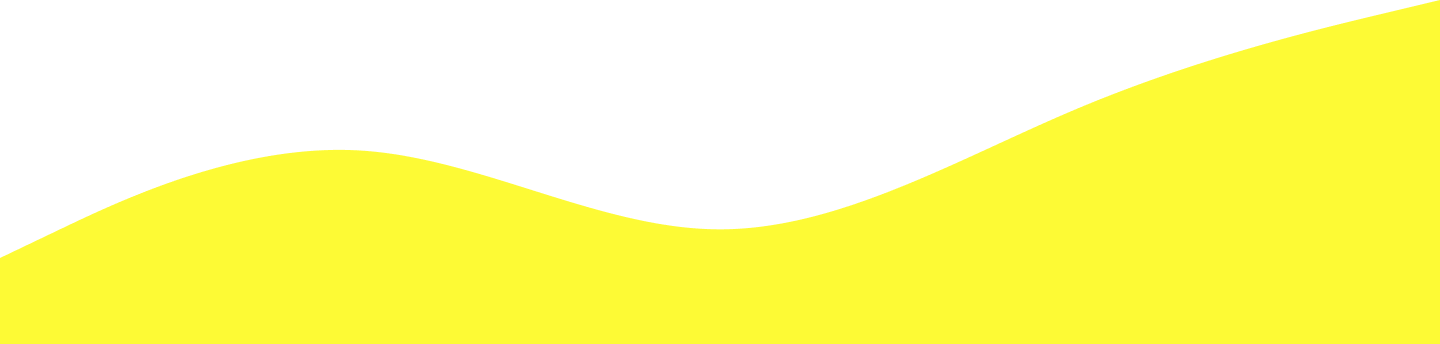
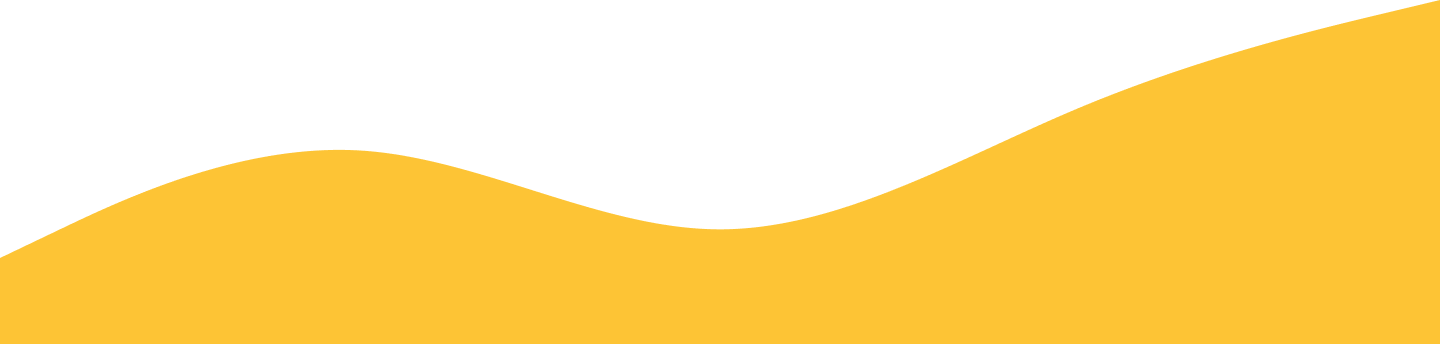
add user verif to go on admin

diff --git a/src/components/Navbar.tsx b/src/components/Navbar.tsx
@@ -1,6 +1,6 @@
 import { useState } from "react";
 import { Link, useNavigate } from "react-router";
-import { FaBars, FaXmark } from "react-icons/fa6";
+import { FaArrowRightFromBracket, FaBars, FaXmark } from "react-icons/fa6";
 import { useAuth } from "../hooks/useAuth";
 
 const navLinks = [
@@ -14,12 +14,13 @@ const Navbar = () => {
   const { user, logout } = useAuth();
   const navigate = useNavigate();
 
-  const handleAuth = () => {
-    if (user) {
-      logout();
-    } else {
-      navigate("/login");
-    }
+  const handleLogin = () => {
+    navigate("/login");
+    setMenuOpen(false);
+  };
+
+  const handleLogout = () => {
+    logout();
     setMenuOpen(false);
   };
 
@@ -69,12 +70,32 @@ const Navbar = () => {
             </>
           )}
         </ul>
-        <button
-          onClick={handleAuth}
-          className="text-sm font-semibold px-4 py-2 rounded-xl border border-[var(--color-main-dark)] text-[var(--color-main-dark)] hover:bg-[var(--color-main-dark)] hover:text-white transition-colors cursor-pointer"
-        >
-          {user ? "Logout" : "Login"}
-        </button>
+        {user ? (
+          <div className="flex items-center gap-3">
+            <img
+              src={user.avatarUrl}
+              alt={user.name}
+              title={user.name}
+              className="w-9 h-9 rounded-full object-cover border border-[var(--color-main-dark)]"
+              referrerPolicy="no-referrer"
+            />
+            <button
+              onClick={handleLogout}
+              className="p-2 rounded-full text-[var(--color-main-dark)] hover:bg-[var(--color-main-dark)] hover:text-white transition-colors cursor-pointer"
+              title="Logout"
+              aria-label="Logout"
+            >
+              <FaArrowRightFromBracket className="w-4 h-4" />
+            </button>
+          </div>
+        ) : (
+          <button
+            onClick={handleLogin}
+            className="text-sm font-semibold px-4 py-2 rounded-xl border border-[var(--color-main-dark)] text-[var(--color-main-dark)] hover:bg-[var(--color-main-dark)] hover:text-white transition-colors cursor-pointer"
+          >
+            Login
+          </button>
+        )}
       </nav>
 
       {/* Burger button */}
@@ -127,12 +148,31 @@ const Navbar = () => {
               </>
             )}
             <li>
-              <button
-                onClick={handleAuth}
-                className="text-base text-[var(--color-main-dark)] hover:underline transition-colors cursor-pointer"
-              >
-                {user ? "Logout" : "Login"}
-              </button>
+              {user ? (
+                <div className="flex items-center gap-3">
+                  <img
+                    src={user.avatarUrl}
+                    alt={user.name}
+                    title={user.name}
+                    className="w-8 h-8 rounded-full object-cover border border-[var(--color-main-dark)]"
+                    referrerPolicy="no-referrer"
+                  />
+                  <button
+                    onClick={handleLogout}
+                    className="flex items-center gap-2 text-base text-[var(--color-main-dark)] hover:underline transition-colors cursor-pointer"
+                  >
+                    <FaArrowRightFromBracket className="w-4 h-4" />
+                    Logout
+                  </button>
+                </div>
+              ) : (
+                <button
+                  onClick={handleLogin}
+                  className="text-base text-[var(--color-main-dark)] hover:underline transition-colors cursor-pointer"
+                >
+                  Login
+                </button>
+              )}
             </li>
           </ul>
         </nav>

diff --git a/src/pages/LoginPage.tsx b/src/pages/LoginPage.tsx
@@ -1,40 +1,55 @@
+import { useState } from "react";
 import { GoogleLogin } from "@react-oauth/google";
 import { useNavigate } from "react-router";
 import { useAuth } from "../hooks/useAuth";
-import { parseGoogleCredential } from "../services/authService";
+import { isAuthorizedEmail, parseGoogleCredential } from "../services/authService";
 
 const LoginPage = () => {
   const { login } = useAuth();
   const navigate = useNavigate();
+  const [error, setError] = useState<string | null>(null);
 
   return (
-    <div className="min-h-screen bg-[var(--color-bg-light)] flex items-center justify-center">
-      <div className="bg-white rounded-2xl shadow-sm p-12 flex flex-col items-center gap-8 w-full max-w-sm">
-        <h1
-          className="text-3xl font-bold text-[var(--color-main-dark)]"
-          style={{ fontFamily: "var(--font-playfair)" }}
-        >
-          Admin
-        </h1>
+    <section className="max-w-md mx-auto px-10 py-16 flex flex-col items-center text-center gap-6">
+      <h1
+        className="text-5xl font-bold text-[var(--color-main-dark)]"
+        style={{ fontFamily: "var(--font-playfair)" }}
+      >
+        Admin
+      </h1>
+      <p
+        className="text-base text-[var(--color-gray-medium)] leading-relaxed"
+        style={{ fontFamily: "var(--font-nunito)" }}
+      >
+        Connectez-vous avec votre compte Google pour accéder au tableau de
+        bord.
+      </p>
+      <GoogleLogin
+        onSuccess={({ credential }) => {
+          if (!credential) return;
+          const user = parseGoogleCredential(credential);
+          if (!user) return;
+          if (!isAuthorizedEmail(user.email)) {
+            setError(
+              "Ce compte Google n'est pas autorisé à accéder à l'administration.",
+            );
+            return;
+          }
+          setError(null);
+          login(user);
+          navigate("/admin/projects");
+        }}
+        onError={() => console.error("Échec de la connexion Google")}
+      />
+      {error && (
         <p
-          className="text-sm text-[var(--color-gray-medium)] text-center"
+          className="text-sm text-red-500"
           style={{ fontFamily: "var(--font-nunito)" }}
         >
-          Connectez-vous avec votre compte Google pour accéder au tableau de
-          bord.
+          {error}
         </p>
-        <GoogleLogin
-          onSuccess={({ credential }) => {
-            if (!credential) return;
-            const user = parseGoogleCredential(credential);
-            if (!user) return;
-            login(user);
-            navigate("/admin/projects");
-          }}
-          onError={() => console.error("Échec de la connexion Google")}
-        />
-      </div>
-    </div>
+      )}
+    </section>
   );
 };
 

diff --git a/src/App.tsx b/src/App.tsx
@@ -33,8 +33,8 @@ const App = () => {
                   <Route path="/contacts" element={<ContactsPage />} />
                   <Route path="/projects" element={<ProjectsPage />} />
                   <Route path="/projects/:id" element={<ProjectDetailPage />} />
+                  <Route path="/login" element={<LoginPage />} />
                 </Route>
-                <Route path="/login" element={<LoginPage />} />
                 <Route element={<ProtectedRoute />}>
                   <Route path="/admin" element={<AdminLayout />}>
                     <Route path="projects" element={<AdminProjectsPage />} />

diff --git a/src/services/authService.ts b/src/services/authService.ts
@@ -2,6 +2,7 @@ import { googleLogout } from "@react-oauth/google";
 import { UserSchema, type User } from "../types";
 
 const GOOGLE_CLIENT_ID = import.meta.env.VITE_GOOGLE_CLIENT_ID as string;
+const AUTHORIZED_EMAIL = import.meta.env.VITE_AUTHORIZED_EMAIL as string;
 
 export { GOOGLE_CLIENT_ID };
 
@@ -18,6 +19,10 @@ export function parseGoogleCredential(credential: string): User | null {
   } catch {
     return null;
   }
+}
+
+export function isAuthorizedEmail(email: string): boolean {
+  return email.toLowerCase() === AUTHORIZED_EMAIL.toLowerCase();
 }
 
 export function logout(): void {

diff --git a/src/layouts/HomeLayout.tsx b/src/layouts/HomeLayout.tsx
@@ -11,9 +11,11 @@ const HomeLayout = () => {
         alt=""
         className="absolute top-0 right-0 w-[55%] max-w-[600px] h-auto pointer-events-none select-none"
       />
-      <div className="relative">
+      <div className="relative flex flex-col min-h-screen">
         <Navbar />
-        <Outlet />
+        <main className="flex-1">
+          <Outlet />
+        </main>
         <Footer />
       </div>
     </div>

diff --git a/src/layouts/AdminLayout.tsx b/src/layouts/AdminLayout.tsx
@@ -4,9 +4,11 @@ import Footer from "../components/Footer";
 
 const AdminLayout = () => {
   return (
-    <div className="min-h-screen bg-[var(--color-bg-light)]">
+    <div className="min-h-screen flex flex-col bg-[var(--color-bg-light)]">
       <Navbar />
-      <Outlet />
+      <main className="flex-1">
+        <Outlet />
+      </main>
       <Footer />
     </div>
   );

diff --git a/src/layouts/BaseLayout.tsx b/src/layouts/BaseLayout.tsx
@@ -4,9 +4,11 @@ import Footer from "../components/Footer";
 
 const BaseLayout = () => {
   return (
-    <div className="min-h-screen bg-[var(--color-bg-light)]">
+    <div className="min-h-screen flex flex-col bg-[var(--color-bg-light)]">
       <Navbar />
-      <Outlet />
+      <main className="flex-1">
+        <Outlet />
+      </main>
       <Footer />
     </div>
   );
